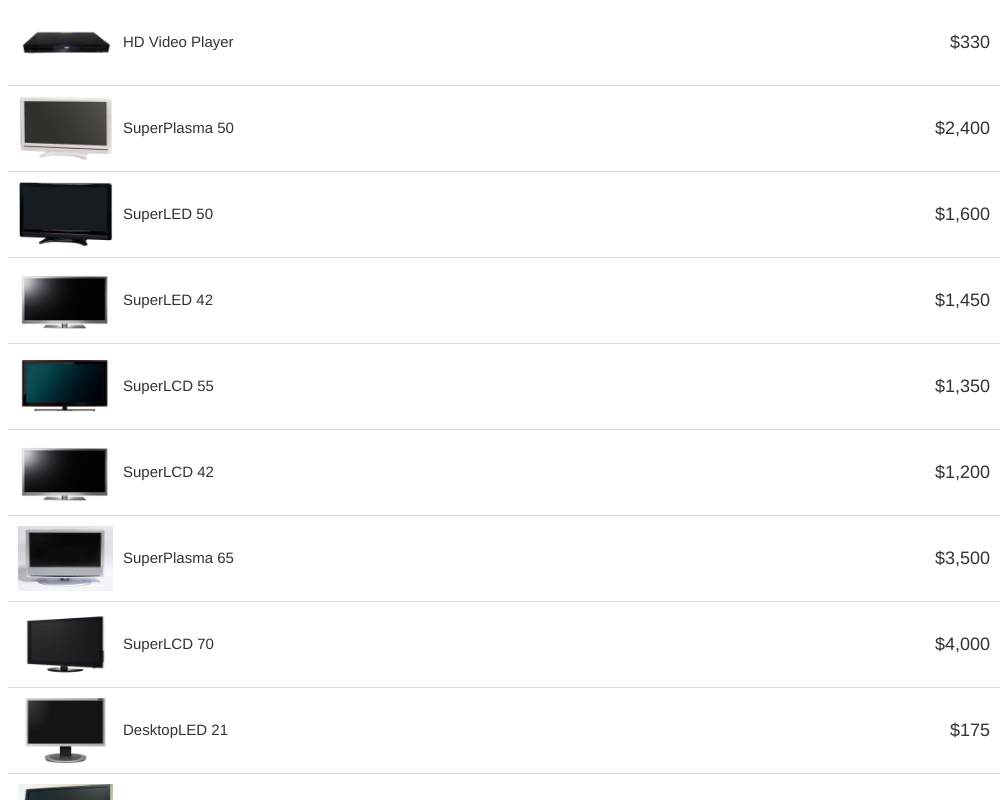
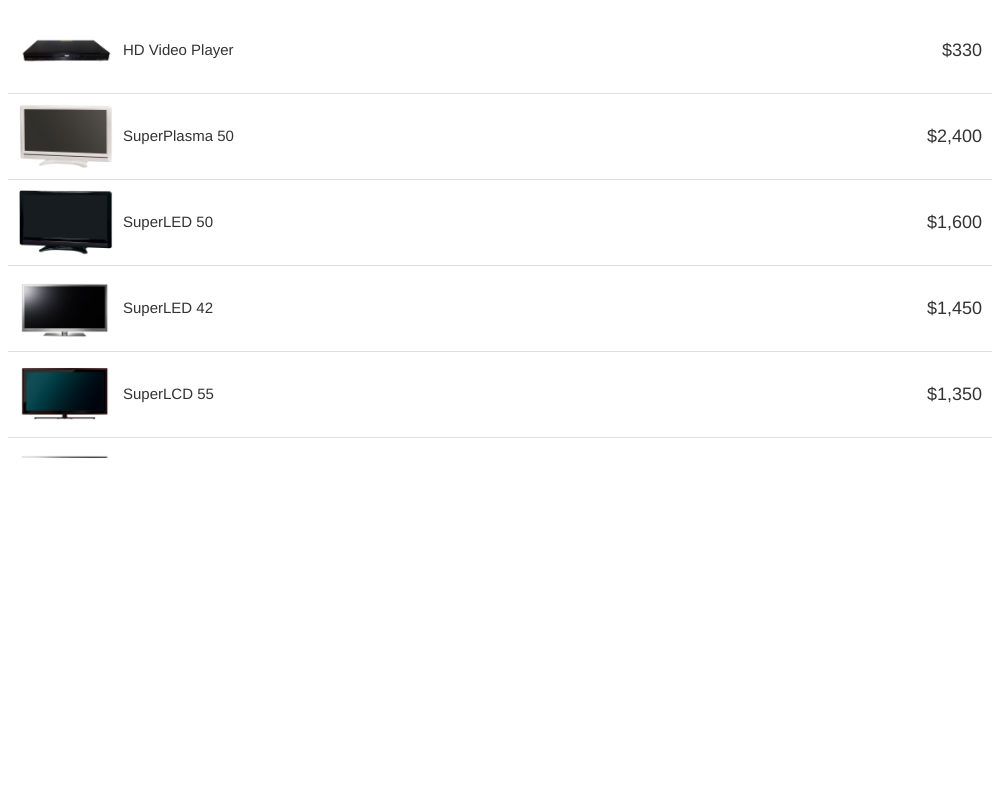
Drawer,List demos - Remove absolute positioned container (#3036)
* fix drawer demo

* fix list demo

* update etalon

* fix react&vue

diff --git a/JSDemos/Demos/List/ItemTemplate/Vue/App.vue b/JSDemos/Demos/List/ItemTemplate/Vue/App.vue
@@ -18,11 +18,11 @@ import { products } from './data.js';
 const dataSource = products;
 </script>
 <style>
+#app {
+  height: 450px;
+}
+
 .list-container {
-  min-height: 440px;
-  height: auto;
-  position: absolute;
-  top: 0;
-  bottom: 0;
+  height: 100%;
 }
 </style>

diff --git a/JSDemos/Demos/Drawer/LeftOrRightPosition/Vue/App.vue b/JSDemos/Demos/Drawer/LeftOrRightPosition/Vue/App.vue
@@ -107,10 +107,6 @@ const toolbarContent = [{
       padding-top: 12px;
     }
 
-    .dx-drawer-expand.dx-drawer-right .panel-list {
-      float: right;
-    }
-
     .options {
       padding: 20px;
       background-color: rgba(191, 191, 191, 0.15);

diff --git a/MVCDemos/Content/DemosStyles/List/ItemTemplate.css b/MVCDemos/Content/DemosStyles/List/ItemTemplate.css
@@ -1,9 +1,9 @@
-.list-container {
-    min-height: 440px;
-    height: auto;
-    position: absolute;
-    top: 0; 
-    bottom: 0;
+.demo-container {
+    height: 450px;
+}
+  
+.list-container {
+    height: 100%;
 }
 
 .product {

diff --git a/NetCoreDemos/wwwroot/css/DemosStyles/List/ItemTemplate.css b/NetCoreDemos/wwwroot/css/DemosStyles/List/ItemTemplate.css
@@ -1,9 +1,9 @@
-.list-container {
-    min-height: 440px;
-    height: auto;
-    position: absolute;
-    top: 0; 
-    bottom: 0;
+.demo-container {
+    height: 450px;
+}
+  
+.list-container {
+    height: 100%;
 }
 
 .product {

diff --git a/JSDemos/Demos/List/ItemTemplate/Angular/app/app.component.css b/JSDemos/Demos/List/ItemTemplate/Angular/app/app.component.css
@@ -1,9 +1,9 @@
+::ng-deep .demo-container {
+  height: 450px;
+}
+
 ::ng-deep .list-container {
-  min-height: 440px;
-  height: auto;
-  position: absolute;
-  top: 0;
-  bottom: 0;
+  height: 100%;
 }
 
 ::ng-deep .product {

diff --git a/JSDemos/Demos/Drawer/LeftOrRightPosition/Angular/app/app.component.css b/JSDemos/Demos/Drawer/LeftOrRightPosition/Angular/app/app.component.css
@@ -22,10 +22,6 @@
   padding-top: 12px;
 }
 
-::ng-deep .dx-drawer-expand.dx-drawer-right .panel-list {
-  float: right;
-}
-
 ::ng-deep .options {
   padding: 20px;
   background-color: rgba(191, 191, 191, 0.15);

diff --git a/MVCDemos/Content/DemosStyles/Drawer/LeftOrRightPosition.css b/MVCDemos/Content/DemosStyles/Drawer/LeftOrRightPosition.css
@@ -22,10 +22,6 @@
     padding-top: 12px;
 }
 
-.dx-drawer-expand.dx-drawer-right .panel-list {
-    float: right;
-}
-
 .options {
     padding: 20px;
     background-color: rgba(191, 191, 191, .15);

diff --git a/NetCoreDemos/wwwroot/css/DemosStyles/Drawer/LeftOrRightPosition.css b/NetCoreDemos/wwwroot/css/DemosStyles/Drawer/LeftOrRightPosition.css
@@ -22,10 +22,6 @@
     padding-top: 12px;
 }
 
-.dx-drawer-expand.dx-drawer-right .panel-list {
-    float: right;
-}
-
 .options {
     padding: 20px;
     background-color: rgba(191, 191, 191, .15);

diff --git a/JSDemos/Demos/List/ItemTemplate/jQuery/styles.css b/JSDemos/Demos/List/ItemTemplate/jQuery/styles.css
@@ -1,9 +1,9 @@
+.demo-container {
+  height: 450px;
+}
+
 .list-container {
-  min-height: 440px;
-  height: auto;
-  position: absolute;
-  top: 0;
-  bottom: 0;
+  height: 100%;
 }
 
 .product {

diff --git a/JSDemos/Demos/Drawer/LeftOrRightPosition/React/styles.css b/JSDemos/Demos/Drawer/LeftOrRightPosition/React/styles.css
@@ -22,10 +22,6 @@
   padding-top: 12px;
 }
 
-.dx-drawer-expand.dx-drawer-right .panel-list {
-  float: right;
-}
-
 .options {
   padding: 20px;
   background-color: rgba(191, 191, 191, 0.15);

diff --git a/JSDemos/Demos/Drawer/LeftOrRightPosition/ReactJs/styles.css b/JSDemos/Demos/Drawer/LeftOrRightPosition/ReactJs/styles.css
@@ -22,10 +22,6 @@
   padding-top: 12px;
 }
 
-.dx-drawer-expand.dx-drawer-right .panel-list {
-  float: right;
-}
-
 .options {
   padding: 20px;
   background-color: rgba(191, 191, 191, 0.15);

diff --git a/JSDemos/Demos/Drawer/LeftOrRightPosition/jQuery/styles.css b/JSDemos/Demos/Drawer/LeftOrRightPosition/jQuery/styles.css
@@ -22,10 +22,6 @@
   padding-top: 12px;
 }
 
-.dx-drawer-expand.dx-drawer-right .panel-list {
-  float: right;
-}
-
 .options {
   padding: 20px;
   background-color: rgba(191, 191, 191, 0.15);
